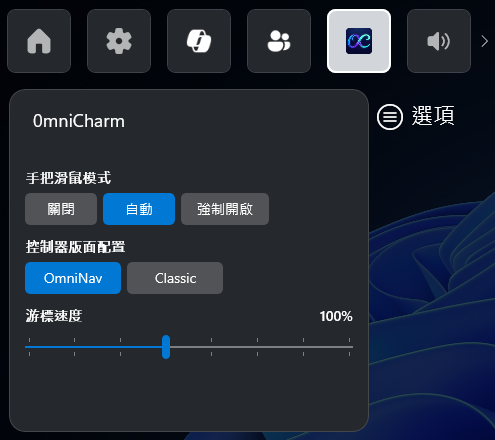
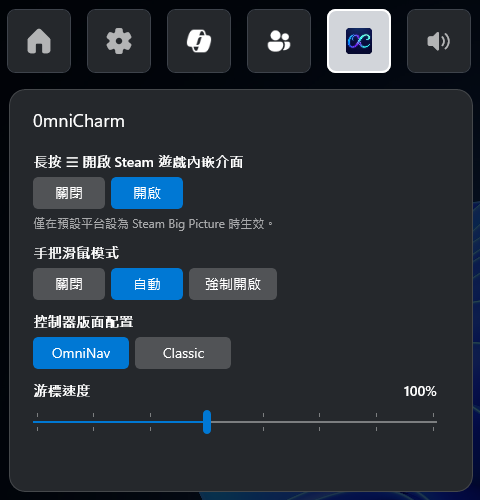
docs: Bump version to 1.8.1.0 and document Steam In-Game Overlay toggle in OmniCharm
- Bumped the application package versions to `1.8.1.0` in `Package.appxmanifest` for both the main app and `OmniConsole.PhantomLink`, and updated the GitHub issue template.
- Expanded the "OmniCharm Widget" feature description in the READMEs to highlight the new capability of toggling the long-press Menu (☰) shortcut for the Steam In-Game Overlay.
- Increased the height of the documentation header images from 320px to 350px for better visual proportion.
- Updated the OmniCharm widget preview screenshots (`docs/images/widget-omnicharm.png` and `docs/images/widget-omnicharm.zh-TW.png`) to reflect the latest UI additions.

diff --git a/README.md b/README.md
@@ -7,7 +7,7 @@
 </p>
 
 <p align="center">
-  <img src="docs/images/app-settings.png" alt="OmniConsole Settings" height="320"><img src="docs/images/widget-omnicharm.png" alt="OmniCharm Widget" height="320">
+  <img src="docs/images/app-settings.png" alt="OmniConsole Settings" height="350"><img src="docs/images/widget-omnicharm.png" alt="OmniCharm Widget" height="350">
 </p>
 
 <p align="center">
@@ -50,7 +50,7 @@ OmniConsole serves as the Windows 11 Full Screen Experience (FSE) Home shell on 
 - **Troubleshoot Page** – A dedicated page for emergency FSE recovery: terminates Game Bar and enters FSE directly, bypassing the FSE confirmation dialog.
 - **Gamepad Support** – Navigate with **D-Pad** or **Left Stick**, press **A** to confirm, **B** to exit, **LB/RB** to switch category tabs, **Y** to add a custom platform, **X** to edit, and **Menu (☰)** to set the focused platform as default and launch it immediately (in FSE mode).
 - **Gamepad Mouse Mode** – Uses your gamepad as a mouse and keyboard. Three modes: **Off**, **Auto** (browsers, File Explorer, Steam, Epic Games Store), and **Force On** (all apps except an exclusion list). Two controller layouts: **OmniNav** and **Classic**, with adjustable cursor speed.
-- **OmniCharm Widget** – A Game Bar widget for quickly toggling Gamepad Mouse Mode, switching controller layouts, and adjusting cursor speed during gameplay.
+- **OmniCharm Widget** – A Game Bar widget for quickly toggling long-press ☰ to open Steam In-Game Overlay, switching Gamepad Mouse Mode, changing controller layouts, and adjusting cursor speed during gameplay.
 - **Gamepad Steam Shortcuts** – Gamepad **⧉** button support for Steam Big Picture mode: short press to open the **Steam Menu**, long press for the **Quick Access Menu**. Long press **☰** in-game to open the **Steam In-Game Overlay**.
 - **Dedicated Settings Entry** – A separate "**OmniConsole Settings**" entry appears in All Apps, so you can change your default platform anytime.
 - **Native FSE Integration** – Registers as a Windows 11 Full Screen Experience Home App through the official FSE API.

diff --git a/README.zh-TW.md b/README.zh-TW.md
@@ -7,7 +7,7 @@
 </p>
 
 <p align="center">
-  <img src="docs/images/app-settings.zh-TW.png" alt="OmniConsole 設定介面" height="320"><img src="docs/images/widget-omnicharm.zh-TW.png" alt="OmniCharm 小工具" height="320">
+  <img src="docs/images/app-settings.zh-TW.png" alt="OmniConsole 設定介面" height="350"><img src="docs/images/widget-omnicharm.zh-TW.png" alt="OmniCharm 小工具" height="350">
 </p>
 
 <p align="center">
@@ -50,7 +50,7 @@ OmniConsole 作為 Windows 11 全螢幕體驗 (FSE) 首頁殼層，在您的 PC 
 - **疑難排解頁面** – 專屬頁面提供緊急修復途徑：結束 Game Bar 並繞過 FSE 確認對話方塊，直接進入 FSE。
 - **手把支援** – 使用**方向鍵**或**左搖桿**導覽，**A 鍵**確認、**B 鍵**退出、**LB/RB** 切換分類索引標籤、**Y 鍵**新增自訂平台、**X 鍵**編輯、**Menu（☰）鍵**將聚焦平台設為預設並立即啟動（在 FSE 模式中）。
 - **手把滑鼠模式** – 以手把作為滑鼠與鍵盤使用。三種模式：**關閉**、**自動**（瀏覽器、檔案總管、Steam、Epic Games Store）與**強制開啟**（所有應用程式，排除清單除外）。提供兩種控制器版面配置：**OmniNav** 和 **Classic**，可調整游標速度。
-- **OmniCharm 小工具** – Game Bar 小工具，在遊戲中快速切換手把滑鼠模式、控制器版面配置與游標速度。
+- **OmniCharm 小工具** – Game Bar 小工具，在遊戲中快速切換長按 ☰ 開啟 Steam 遊戲內嵌介面、手把滑鼠模式、控制器版面配置與游標速度。
 - **手把 Steam 快捷鍵** – 為 Steam Big Picture 模式提供手把 **⧉** 按鍵支援：短按開啟 **Steam 選單**，長按喚出**快速存取選單**。在遊戲中長按 **☰** 可開啟 **Steam 遊戲內嵌介面**。
 - **專屬設定入口** – 在「所有應用程式」中獨立顯示「**OmniConsole 設定**」，隨時可更改預設平台。
 - **原生 FSE 整合** – 透過 Windows 11 全螢幕體驗 API 註冊為首頁應用程式。
